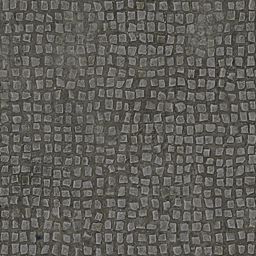
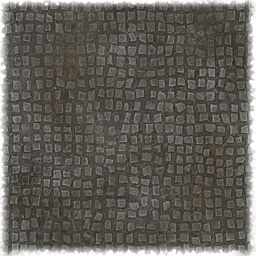
ground: fix stone_1x1

diff --git a/mods/shared-ground-industry/README.md b/mods/shared-ground-industry/README.md
@@ -1,3 +1,7 @@
 # Industry Ground Textures
 
 Modular ground textures used and shared by other mods.
+
+## Changes
+
+- 1.0.1: Fixed stone_1x1. Preferably use concrete_stone_1x1 though.
